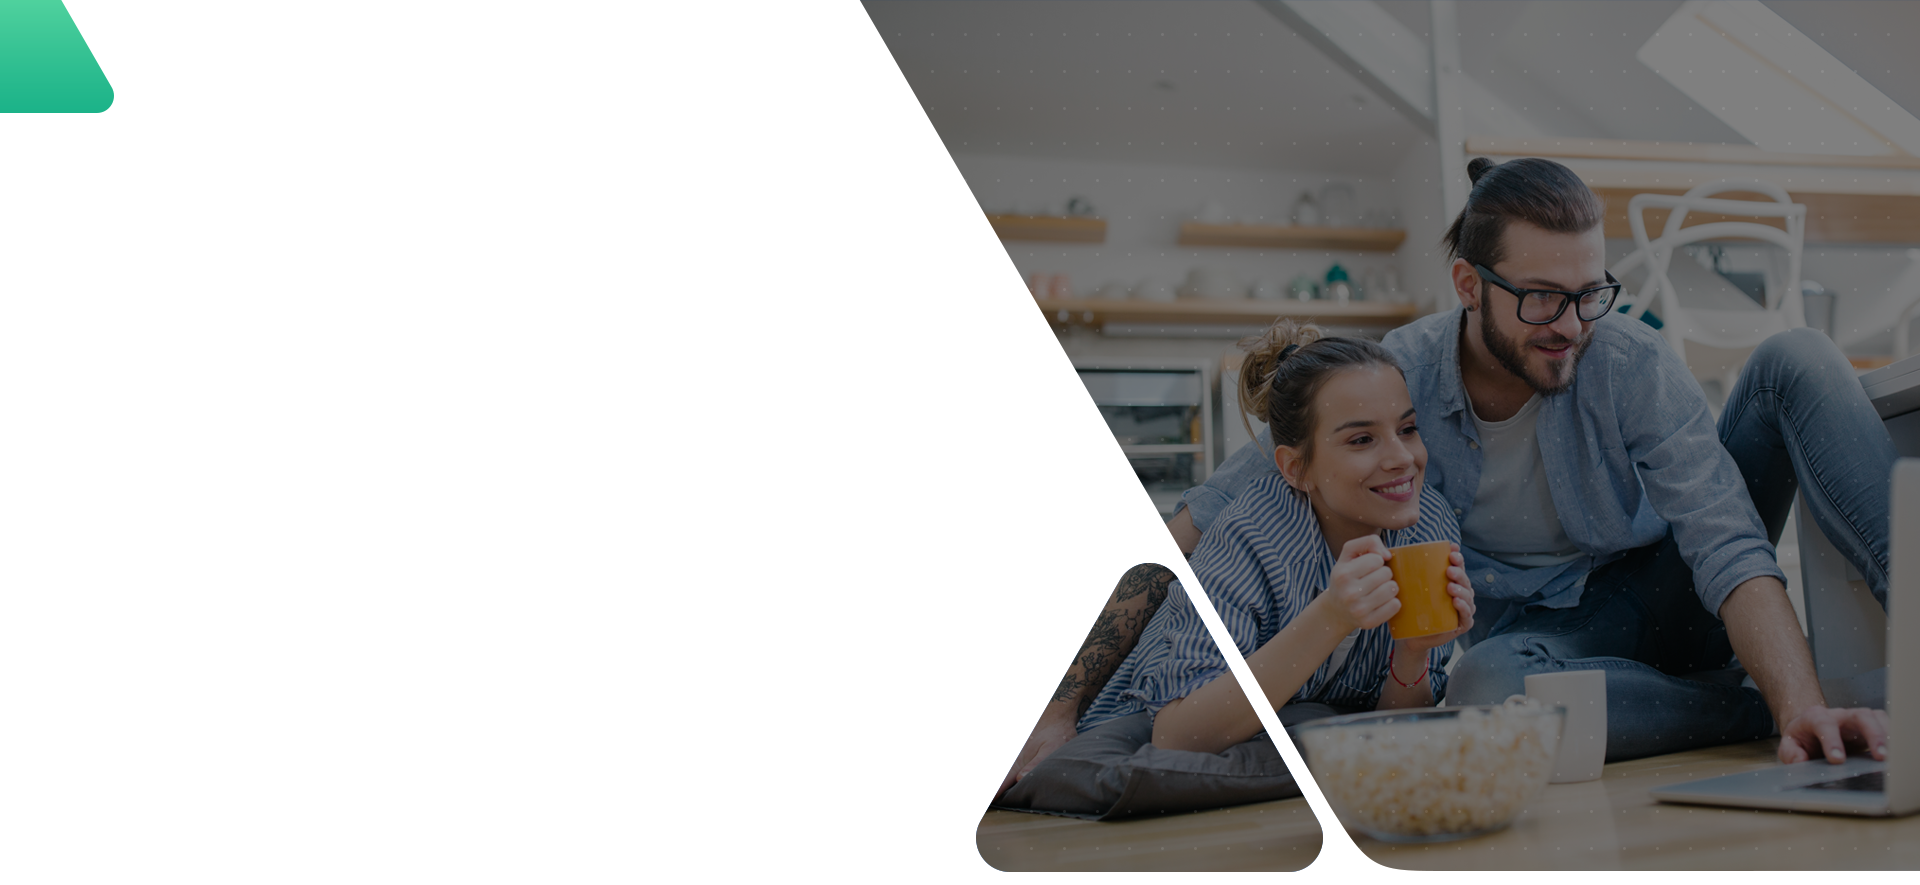
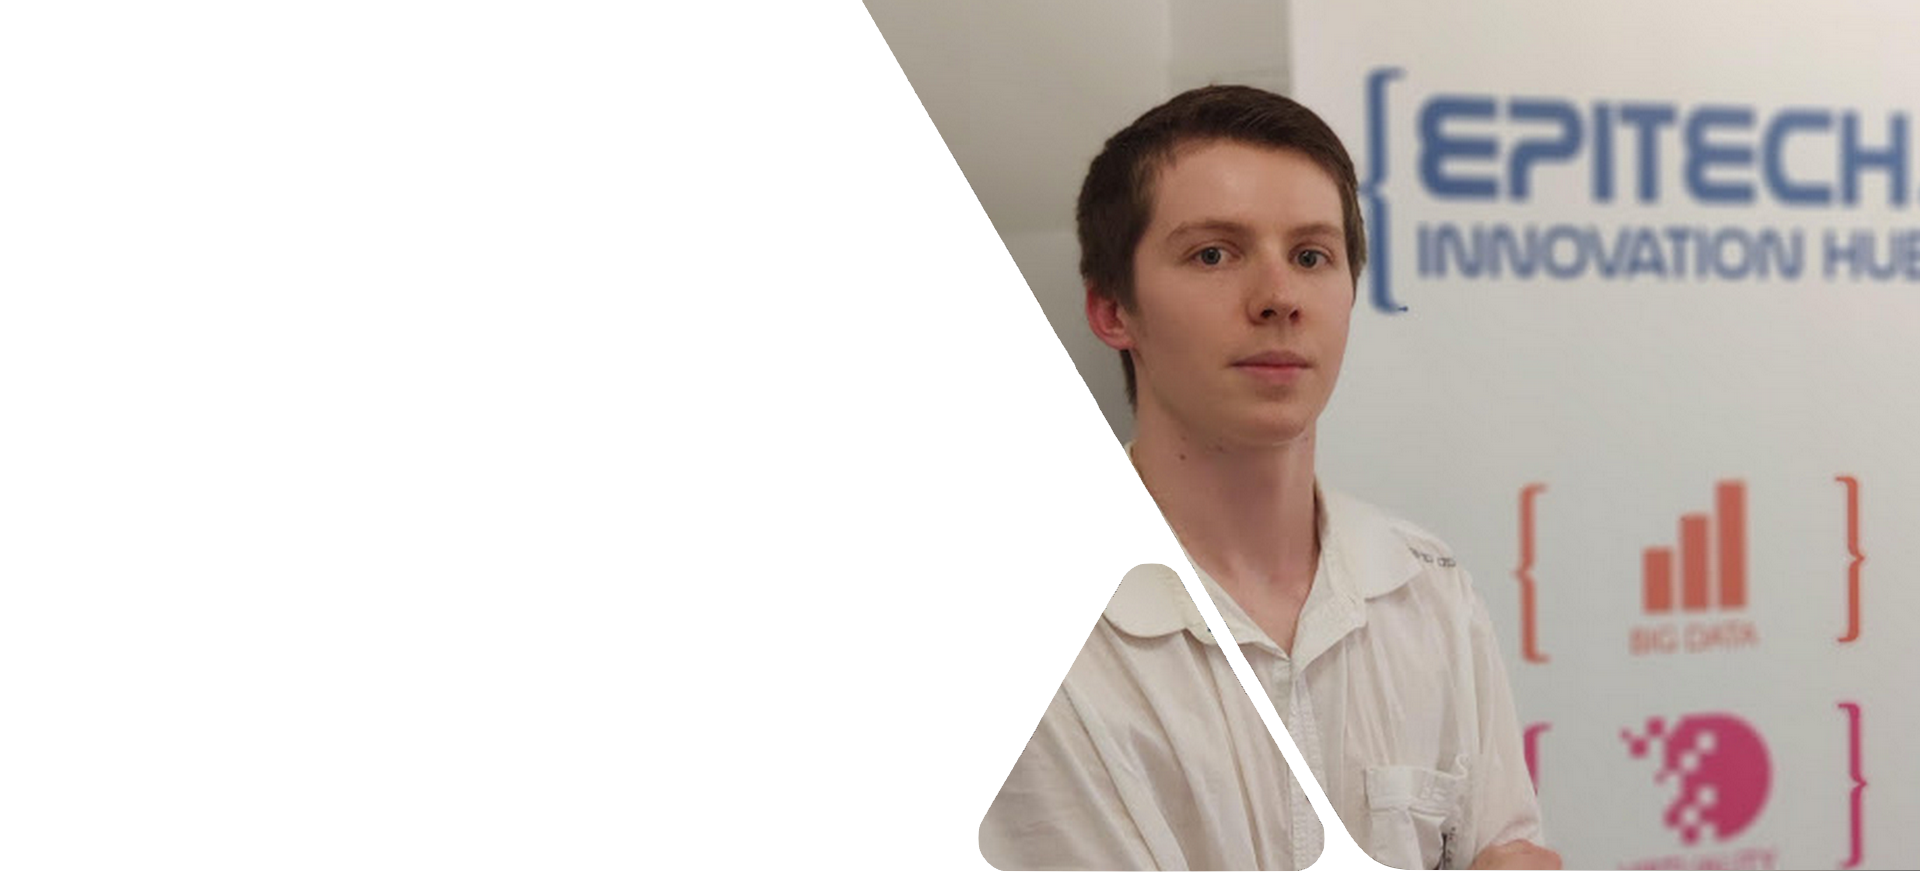
baneer upgrade

diff --git a/src/Layouts/main.js b/src/Layouts/main.js
@@ -19,23 +19,6 @@ const MainLayout = ({render}) => {
       <Sidebar />
       <div className={styles.MainLayoutContent}>
         {render}
-        define([
-          'require',
-          'd
-          d
-          d
-          d
-          d
-          
-          d
-          d
-          d
-          d
-          d
-          d
-          d
-          d'
-        ], function(require, factory)
       </div>
     </SidebarContext.Provider>
   )
